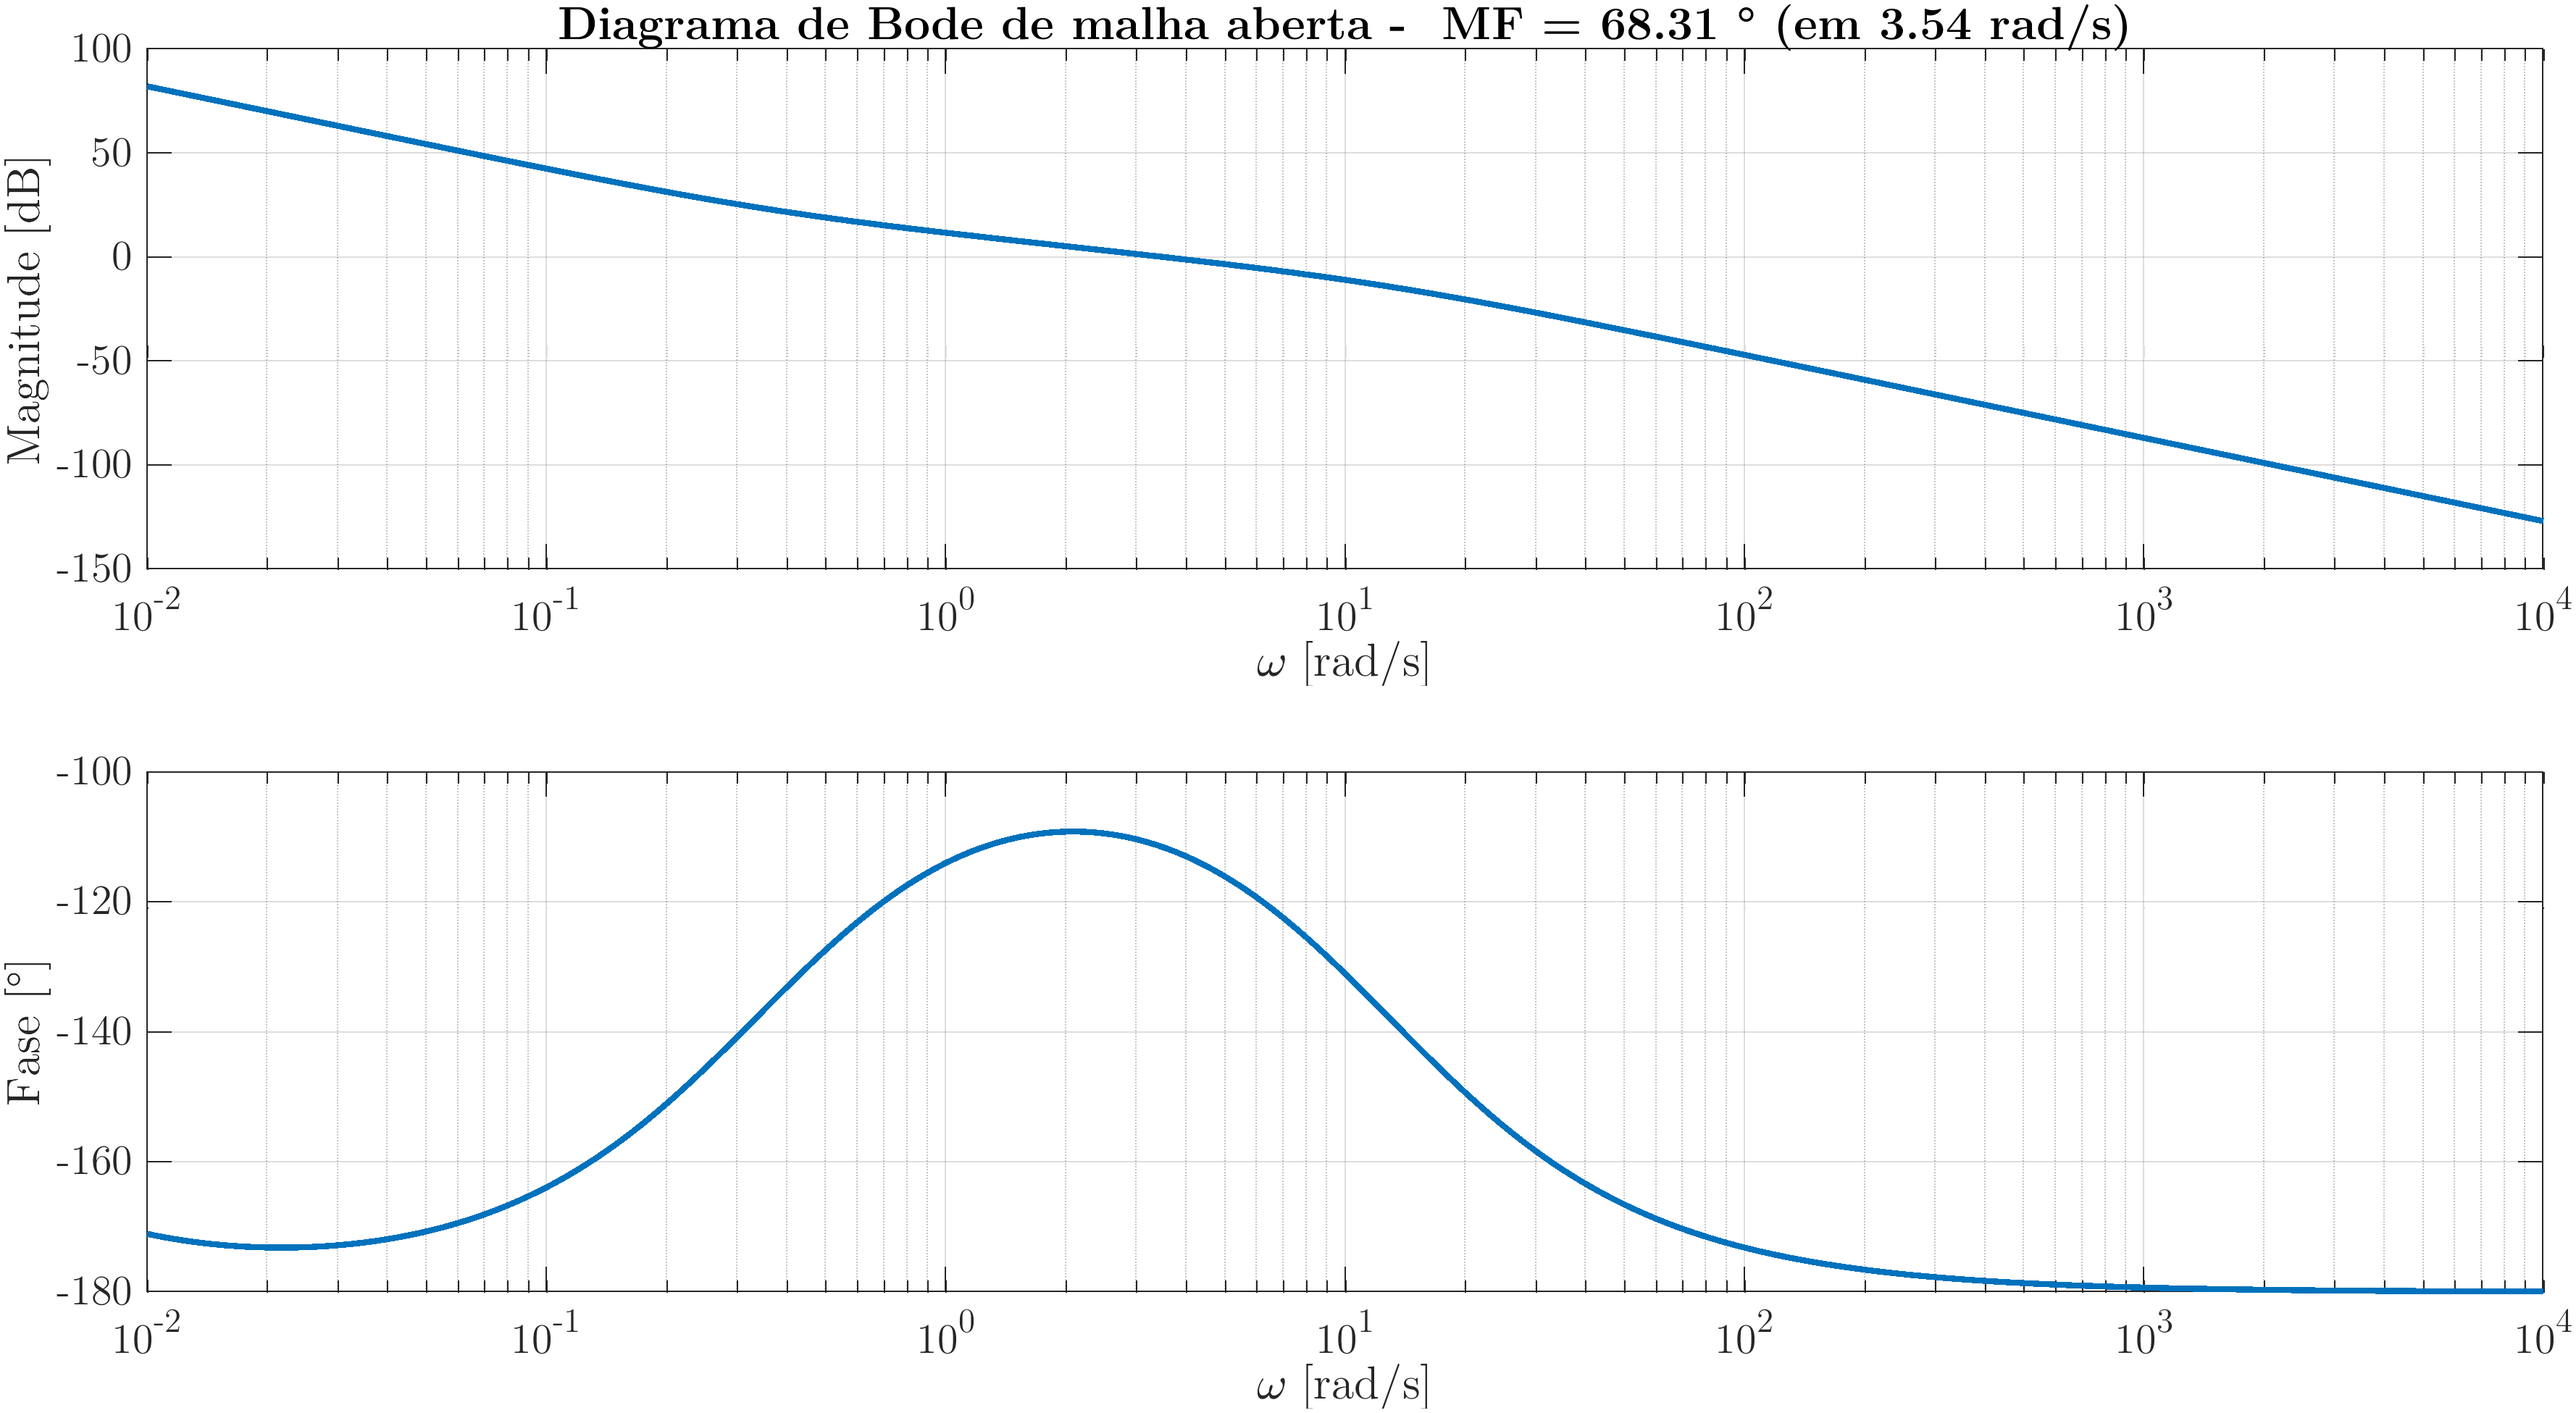
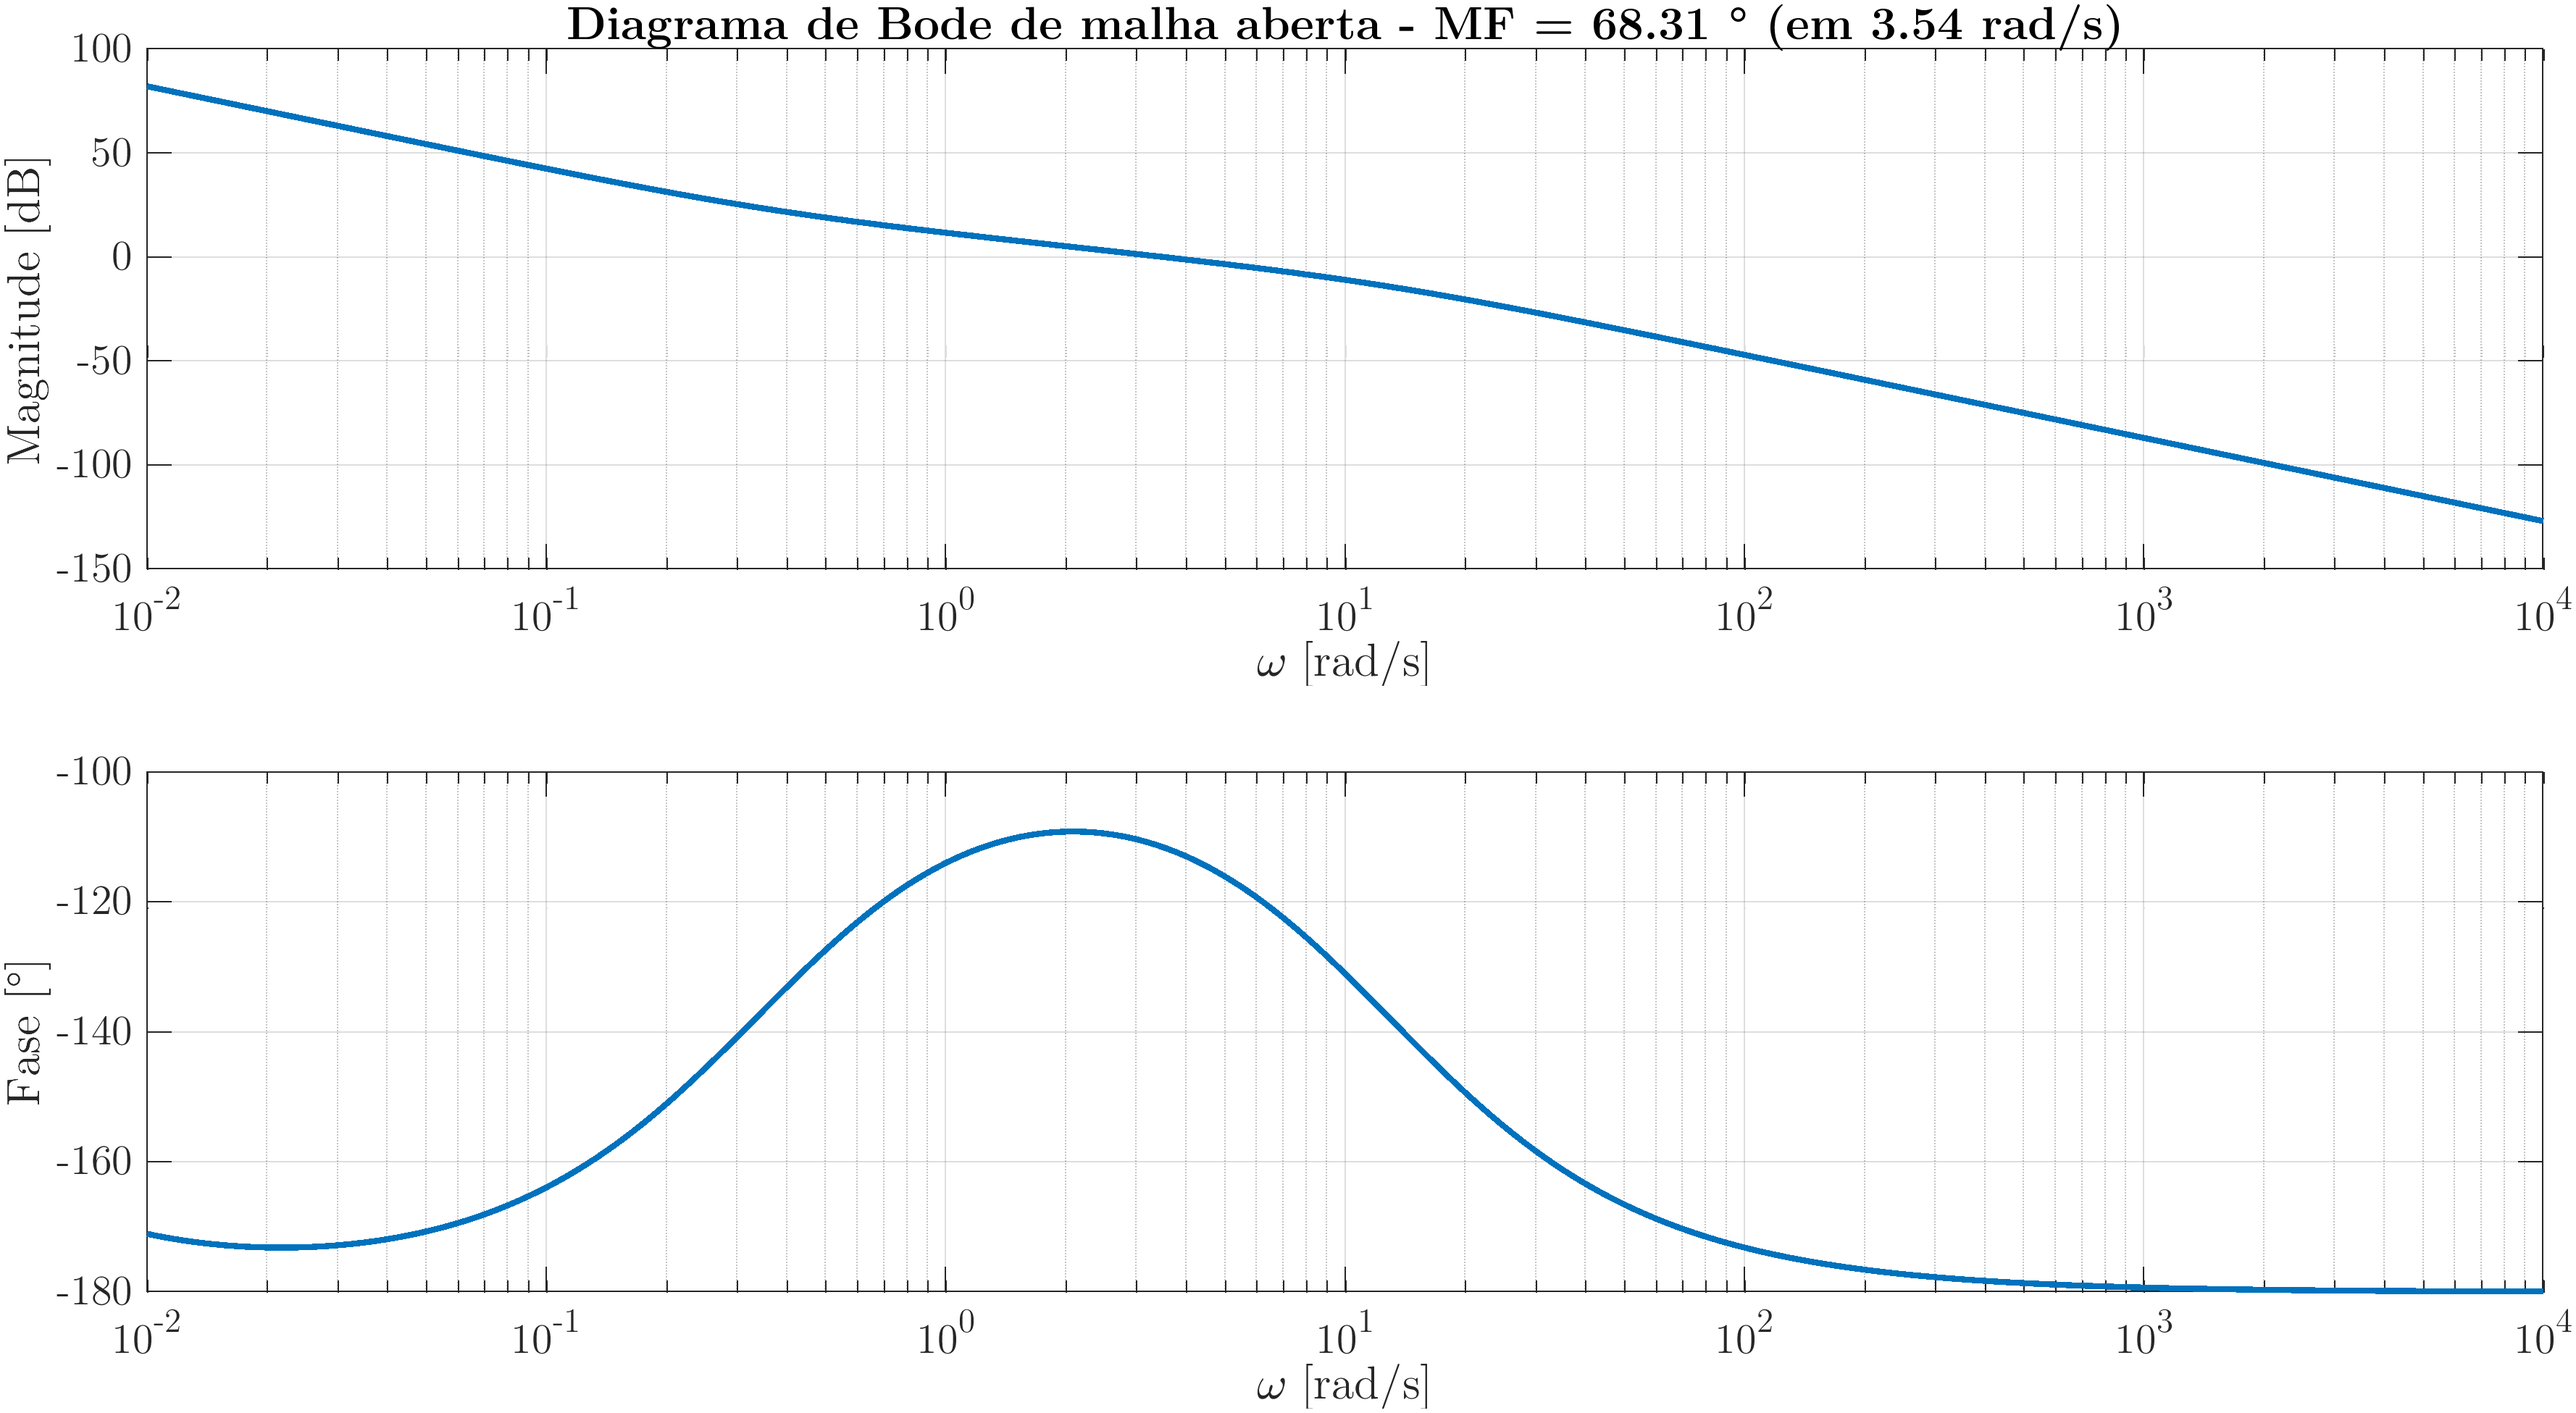
Atualizando função de avanço-atraso para deixar mais linear e organizada

Changed region(s): [[0.2185, 0.0, 0.8428, 0.0308]]

diff --git a/functions/projectPhaseLeadLagCompensator.m b/functions/projectPhaseLeadLagCompensator.m
@@ -12,7 +12,7 @@ function compensator_tf = projectPhaseLeadLagCompensator(plant_tf, desired_ess, 
     wn = pi/(peak_time*sqrt(1 - xi^2));
     BW = wn*sqrt((1 - 2*xi^2) + sqrt(4*xi^4 - 4*xi^2 + 2));
     
-    % Projeto atraso
+    % Projeto avanco
     desired_phase_margin = atand(2*xi/sqrt(-2*xi^2 + sqrt(1 + 4*xi^4)));
     wcg = 0.8*BW;
     w = linspace(0.9*wcg, 1.1*wcg, 1E3);  % Para centralizar em wcg e melhorar precisao
@@ -22,14 +22,14 @@ function compensator_tf = projectPhaseLeadLagCompensator(plant_tf, desired_ess, 
     phase_margin = 180 + gamma;
     phi = desired_phase_margin - phase_margin + tolerance;
     alpha = (1 - sind(phi))/(1 + sind(phi));
+    T1 = 1/(wcg*sqrt(alpha));
+    lead_compensator_tf = (1 + s*T1)/(1 + s*T1*alpha);
+
+    % Projeto atraso
     beta = 1/alpha;
     T2 = 1/(wcg/10);
-    lag_compensator_tf = 1/beta*(s + 1/T2)/(s + 1/(beta*T2));
-
-    % Projeto avanco
-    T1 = 1/(wcg*sqrt(alpha));
-    lead_compensator_tf = 1/alpha*(s + 1/T1)/(s + 1/(alpha*T1));
+    lag_compensator_tf = (1 + s*T2)/(1 + s*T2*beta);
 
     % Funcao de transferencia do compensador
-    compensator_tf = K*lag_compensator_tf*lead_compensator_tf;
+    compensator_tf = K*lead_compensator_tf*lag_compensator_tf;
 end

diff --git a/functions/plotSystemResponse.m b/functions/plotSystemResponse.m
@@ -14,7 +14,7 @@ function [fig1, fig2, fig3, fig4] = plotSystemResponse(open_loop_transfer_functi
     ylabel('Magnitude [dB]')
     xlabel('\omega [rad/s]')
     grid on
-    title(sprintf('Diagrama de Bode de malha aberta -  MF = %.2f ° (em %.2f rad/s)', phase_margin, wcg))
+    title(sprintf('Diagrama de Bode de malha aberta - MF = %.2f ° (em %.2f rad/s)', phase_margin, wcg))
     ax12 = subplot(2, 1, 2);
     semilogx(w_bode, phase_ol)
     ylabel('Fase [°]')
@@ -34,7 +34,7 @@ function [fig1, fig2, fig3, fig4] = plotSystemResponse(open_loop_transfer_functi
     ylabel('Magnitude [dB]')
     xlabel('\omega [rad/s]')
     grid on
-    title(sprintf('Diagrama de Bode de malha fechada -  BW = %.2f rad/s', BW))
+    title(sprintf('Diagrama de Bode de malha fechada - BW = %.2f rad/s', BW))
     ax12 = subplot(2, 1, 2);
     semilogx(w_bode, phase_cl)
     ylabel('Fase [°]')
